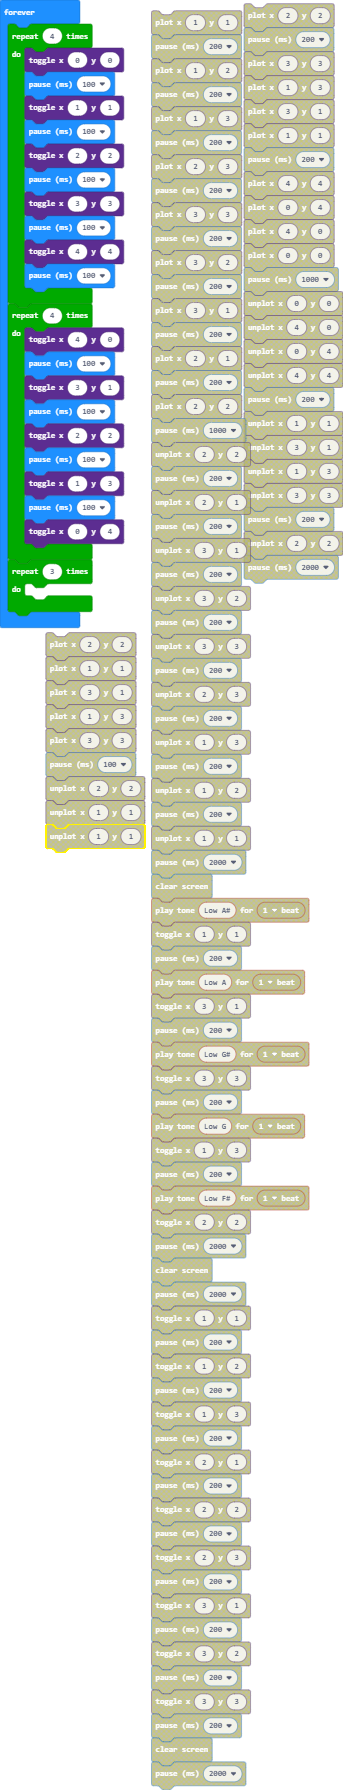
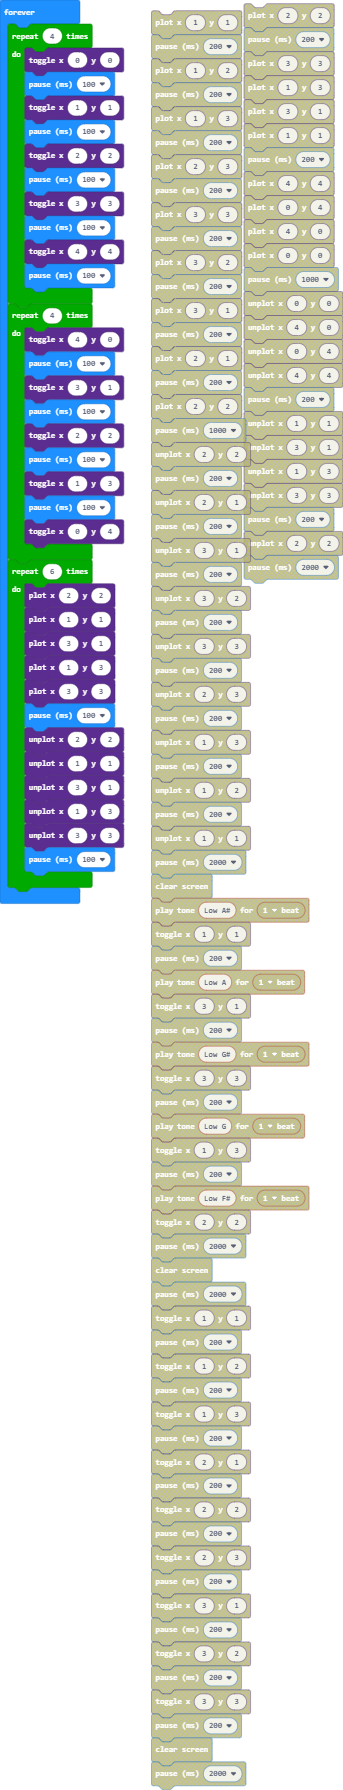
Update main.blocks, main.ts

Changed region(s): [[0.0, 0.3073, 0.4373, 0.5223]]

diff --git a/main.ts b/main.ts
@@ -22,7 +22,18 @@ basic.forever(function () {
         basic.pause(100)
         led.toggle(0, 4)
     }
-    for (let index = 0; index < 3; index++) {
-    	
+    for (let index = 0; index < 6; index++) {
+        led.plot(2, 2)
+        led.plot(1, 1)
+        led.plot(3, 1)
+        led.plot(1, 3)
+        led.plot(3, 3)
+        basic.pause(100)
+        led.unplot(2, 2)
+        led.unplot(1, 1)
+        led.unplot(3, 1)
+        led.unplot(1, 3)
+        led.unplot(3, 3)
+        basic.pause(100)
     }
 })
